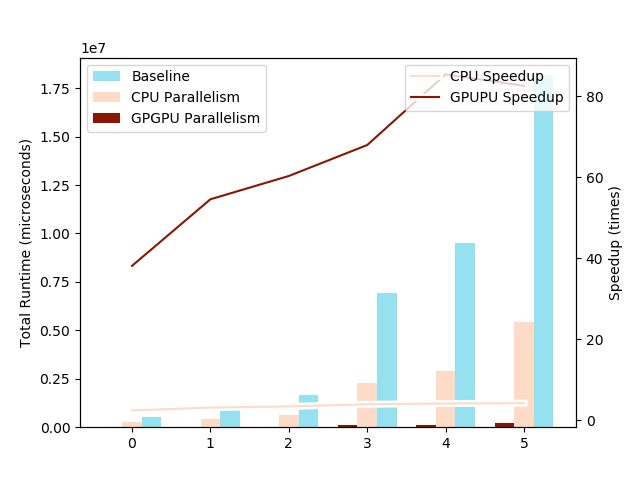
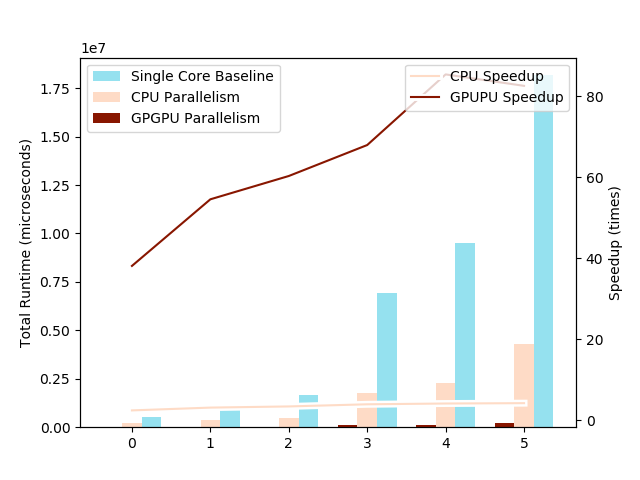
update repo

diff --git a/project_final_version/plot.py b/project_final_version/plot.py
@@ -8,8 +8,8 @@ n = None
 mode = None
 filenames = []
 num_nodes = []
-pr_time = {"bl": [], "cpu": [], "gpu": []}
-total_time = {"bl": [], "cpu": [], "gpu": []}
+pr_time = {"naive":[], "bl": [], "cpu": [], "gpu": []}
+total_time = {"naive":[], "bl": [], "cpu": [], "gpu": []}
 
 with open("results.txt", "r") as f:
 	first = True
@@ -33,7 +33,7 @@ print(num_nodes)
 os.system("mkdir plots")
 
 # plot runtimes (update, pagerank, total) for each mode
-for mode in ["bl", "cpu", "gpu"]:
+for mode in ["naive", "bl", "cpu", "gpu"]:
 	plt.figure()
 	plt.scatter(num_nodes, pr_time[mode])
 	plt.plot(num_nodes, pr_time[mode], label="PR Calculation Time")
@@ -52,8 +52,9 @@ gpu_spdup = [pr_time["bl"][i]/pr_time["gpu"][i] for i in range(n)]
 plt.figure()
 
 fig, ax1 = plt.subplots()
-ax1.bar(X + 0.25, pr_time["bl"], color='#95E1EF', width=0.25, label = "Baseline")
-ax1.bar(X, total_time["cpu"], color='#FEDBC6', width=0.25, label = "CPU Parallelism")
+# ax1.bar(X + 0.5, pr_time["naive"], color='#000000', width=0.25, label = "Naive")
+ax1.bar(X + 0.25, pr_time["bl"], color='#95E1EF', width=0.25, label = "Single Core Baseline")
+ax1.bar(X, pr_time["cpu"], color='#FEDBC6', width=0.25, label = "CPU Parallelism")
 ax1.bar(X - 0.25, pr_time["gpu"], color='#881600', width=0.25, label="GPGPU Parallelism")
 ax1.set_ylabel("Total Runtime (microseconds)")
 ax1.legend()

diff --git a/project_final_version/pageRank.hpp b/project_final_version/pageRank.hpp
@@ -1,0 +1,55 @@
+#ifndef CSC586C_pageRank
+#define CSC586C_pageRank
+
+#include <vector>
+
+using namespace std;
+
+namespace csc586 {
+
+using Id = unsigned short int;
+using Count = unsigned short int;
+using Score = float;
+
+namespace aos {
+
+struct Node
+{
+	vector< Node* > nodesFrom; // 8*n bytes.
+	Score scorePrev; // Score in iteration i-1; 4 bytes.
+	Score score; // Score in iteration i; 4 bytes.
+	Id id; // 2 bytes.
+	Count countTo; // 2 bytes.
+};
+
+}
+
+
+namespace soa {
+
+struct Nodes
+{
+	vector< vector< Id > > nodesFrom;
+	vector< Count > countTo;
+	vector< Score > score;
+	vector< Score > scorePrev;
+};
+
+}
+
+
+namespace soa_v2 {
+
+struct Nodes
+{
+	vector< vector< Id > > nodesFrom;
+	vector< Count > countTo;
+	// Merge score and scorePrev into one vector.
+	// Node i: previous score at index i*2, current score at index i*2 + 1.
+	vector< Score > score;
+};
+
+}
+}
+
+#endif
